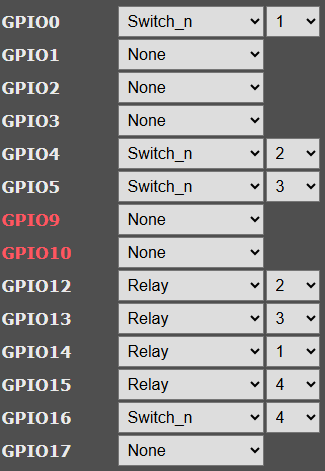
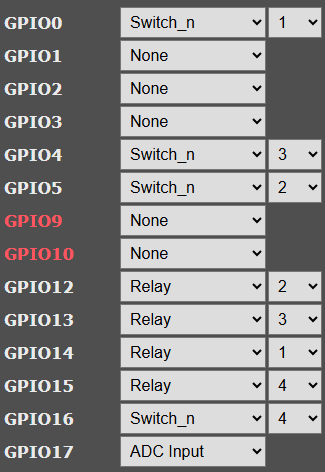
Updated README

diff --git a/README.md b/README.md
@@ -1,7 +1,6 @@
 # Wemos D1 Mini 4 Node Smart Control
 
 
-
 ## 📌 Table of Contents
 
 - [About the Project](#-about-the-project)
@@ -13,8 +12,10 @@
 
 ## 📖 About the Project
 
-This is PCB design for smart control based on ESP8266 Wemos D1 mini module. It has 4 inputs which can be connected to AC switch and 4 outputs can be connected to loads. 
-The board can be fitted behind the switchboard as an after market fit without rewiring, provided there is a neutral line available. 
+This board is designed as a multi-purpose board which can help in using the standard Wemos D1 Mini board based on ESP8266 to a 4 relay smart control unit. 
+The relays are miniature in size which can control upto 5A, 250AC (or 7A, based on which unit you used). It has 4 inputs which can be connected to AC switch and 4 outputs can be connected to loads. The board can be fitted behind the switchboard as an after market fit without rewiring, provided there is a neutral line available. 
+
+Additional taping points are added for using the device in many other configurations. Due to limited inputs, there is also 2 digital switch support based on ADC divider circuit provisioned. 
 
 ## 🖼 Screenshots
 ![Top View 1](Pics/top1.png)
@@ -23,12 +24,12 @@ The board can be fitted behind the switchboard as an after market fit without re
 
 ## 🚀 Usage
 The design was done for using with Tasmota firmware, but user can use any firmware which can support the below configuraton.
-- Inputs: D0, D1, D2 and D3
+- Inputs: D0, D1, D2, D3 and ADC (with voltage divider option for 2 digital pins)
 - Outputs: D5, D5, D7 and D8
 
   Note: D3 has a pull-up and boot fails if pulled down during power on. 
 
-Additional usage instructions and examples.
+D0 to D3 supports AC detection circuit. For using ADC divider based configuration, connect one switch between +3.3 and R21 (J6), second switch between R22 and ground (J7). All combinations of J6/J7 key presses and short circuits (SCB/SCG) are detectable via different ADC values if the default specified resistors are used. 
 
 ## ⚙ Configuration for Tasmota
 Following configuration can be used for Tasmota firmware.
